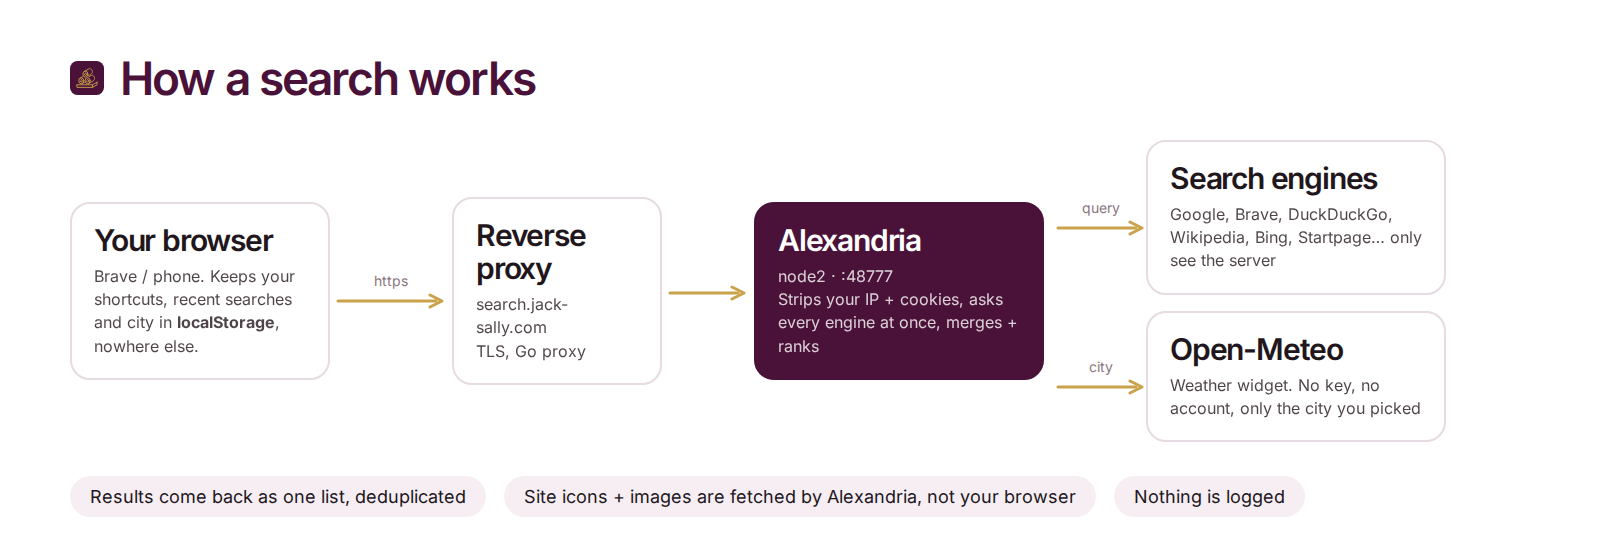
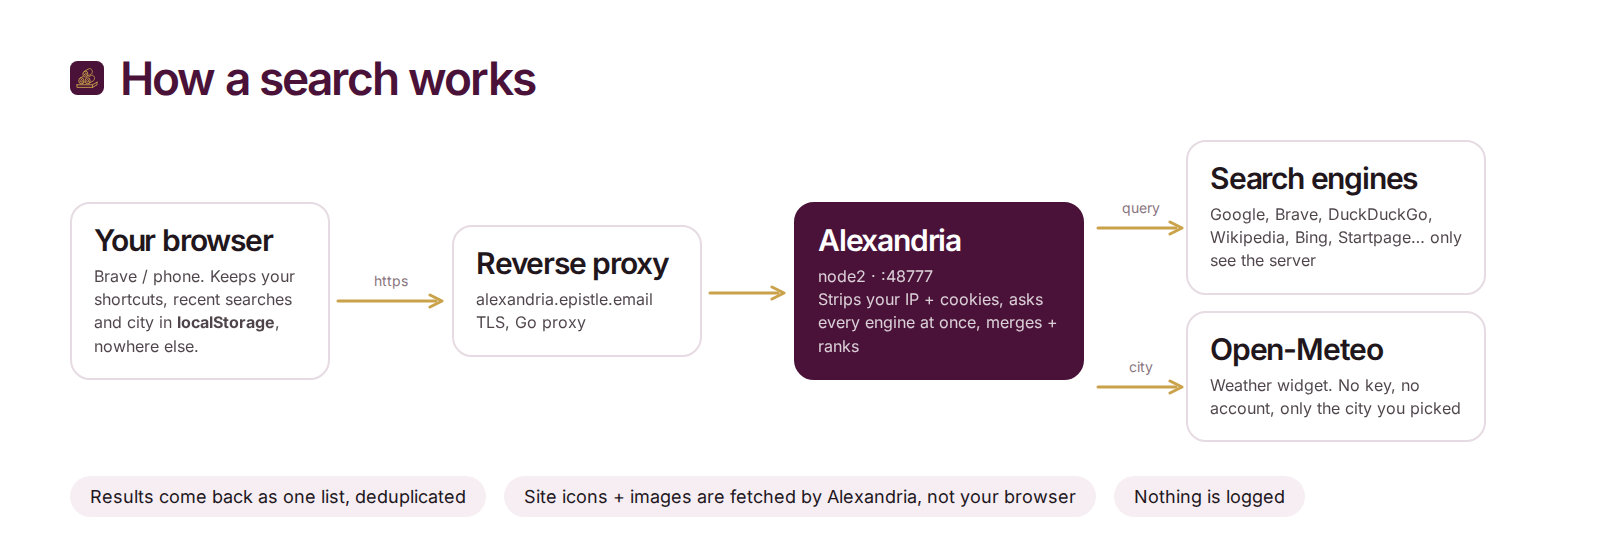
Alexandria moves to alexandria.epistle.email (base URL, README, diagram)

diff --git a/README.md b/README.md
@@ -2,7 +2,7 @@
 
 # Alexandria
 
-**Alexandria** is Martynas's own private search engine, named after the ancient library that tried to hold everything ever written. It will run at **https://search.jack-sally.com**.
+**Alexandria** is Martynas's own private search engine, named after the ancient library that tried to hold everything ever written. It will run at **https://alexandria.epistle.email** (the old name, search.jack-sally.com, redirects there).
 It asks Google, Brave, DuckDuckGo, Wikipedia and 70+ other engines at once, merges the answers into one clean
 list, and none of them ever sees who searched. No ads, no tracking, no profile.
 
@@ -38,7 +38,7 @@ page full of widgets, and an app launcher for the rest of the self-hosted servic
 **Make it Brave's default search engine**
 
 1. Open `brave://settings/searchEngines` → **Site search** → **Add**.
-2. Name `Alexandria`, shortcut `a`, URL `https://search.jack-sally.com/search?q=%s` → **Add**.
+2. Name `Alexandria`, shortcut `a`, URL `https://alexandria.epistle.email/search?q=%s` → **Add**.
 3. On the new row, **⋮** → **Make default**. Address-bar suggestions come along automatically.
 
 Firefox / Chrome: visit the site once, then pick *Alexandria* in the browser's search settings (it announces itself
@@ -101,7 +101,7 @@ Then Portainer → Stacks → **alexandria** → *Pull and redeploy*. It is a **
 `deploy/alexandria.portainer.yml`); the image is local (`pull_policy: never`), so always build first. No environment
 variables: the container writes its own `settings.yml` (random `secret_key`, `use_default_settings: true`) into the
 `alexandria-config` volume on first start; overrides are optional (`deploy/settings.example.yml`).
-The reverse proxy already maps `search.jack-sally.com` → `192.168.178.27:48777` (not hosted yet, 2026-10-24: the
+The reverse proxy maps `alexandria.epistle.email` → `192.168.178.27:48777` (cert `/etc/letsencrypt/live/epistle-domains/`, Cloudflare DNS record grey-cloud; `search.jack-sally.com` 301s there) (not hosted yet, 2026-10-24: the
 stack is ready, the first deploy is still to do; see BookStack → Self Hosting → Alexandria → *deploy + update*).
 
 ## Re-render the logo and the README art
